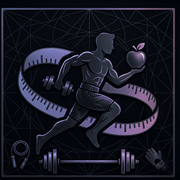
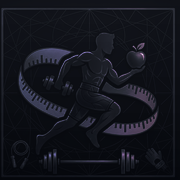
Поменяли иконку и продлили фон до верхней границы

diff --git a/index.html b/index.html
@@ -3,7 +3,7 @@
 <head>
   <meta charset="UTF-8">
   <meta name="viewport" content="width=device-width, initial-scale=1.0, maximum-scale=1.0, user-scalable=no, viewport-fit=cover">
-  <meta name="theme-color" content="#0d1115">
+  <meta name="theme-color" content="#141725">
   <meta name="apple-mobile-web-app-capable" content="yes">
   <meta name="mobile-web-app-capable" content="yes">
   <meta name="apple-mobile-web-app-status-bar-style" content="black-translucent">
@@ -53,7 +53,19 @@
     html {
       height: 100%;
       min-height: 100%;
-      background-color: #0d1115 !important;
+      background-color: #141725 !important;
+    }
+
+    html::before {
+      content: "";
+      position: fixed;
+      inset: -240px 0 -80px;
+      z-index: 0;
+      pointer-events: none;
+      background:
+        radial-gradient(circle at 28% -2%, rgba(127, 142, 216, 0.2), transparent 32rem),
+        radial-gradient(circle at 100% 6%, rgba(163, 101, 123, 0.15), transparent 30rem),
+        linear-gradient(160deg, #141725 0%, #12171c 48%, #090c10 100%);
     }
 
     #root {
@@ -88,13 +100,13 @@
     body::before {
       content: "";
       position: fixed;
-      inset: -160px 0;
+      inset: -240px 0 -80px;
       z-index: 0;
       pointer-events: none;
       background:
-        radial-gradient(circle at 28% -12%, rgba(127, 142, 216, 0.16), transparent 30rem),
-        radial-gradient(circle at 100% 8%, rgba(163, 101, 123, 0.14), transparent 28rem),
-        linear-gradient(160deg, #0d1115 0%, #12171c 48%, #090c10 100%);
+        radial-gradient(circle at 28% -2%, rgba(127, 142, 216, 0.2), transparent 32rem),
+        radial-gradient(circle at 100% 6%, rgba(163, 101, 123, 0.15), transparent 30rem),
+        linear-gradient(160deg, #141725 0%, #12171c 48%, #090c10 100%);
     }
 
     .h-\[100dvh\],
@@ -123,8 +135,8 @@
       inset: 0;
       pointer-events: none;
       background:
-        radial-gradient(circle at 28% -8%, rgba(127, 142, 216, 0.15), transparent 24rem),
-        radial-gradient(circle at 95% 18%, rgba(163, 101, 123, 0.12), transparent 20rem),
+        radial-gradient(circle at 28% -18%, rgba(127, 142, 216, 0.18), transparent 28rem),
+        radial-gradient(circle at 95% 12%, rgba(163, 101, 123, 0.13), transparent 22rem),
         linear-gradient(180deg, rgba(255,255,255,0.03), transparent 18rem);
       opacity: 0.85;
     }
